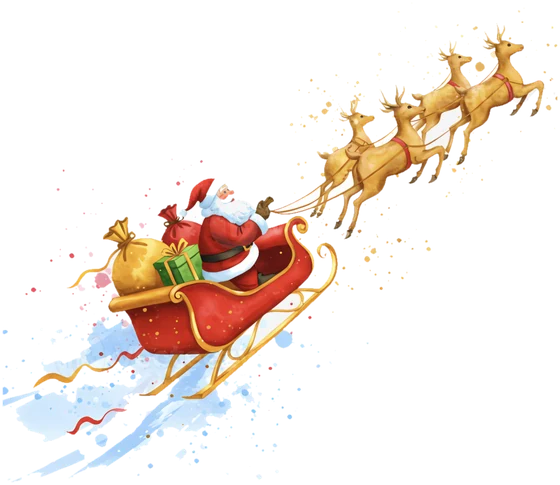
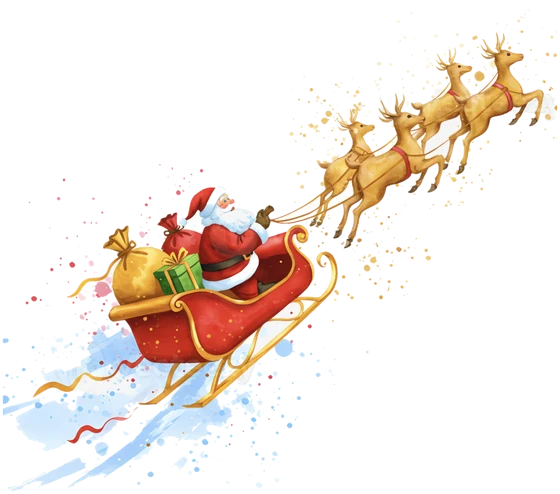
v1.3.4: restore Santa's face in flyby image
Claude-Session: https://claude.ai/code/session_01SRvAJUF6TxjuJo8da87RFD

diff --git a/index.html b/index.html
@@ -191,7 +191,7 @@ textarea { min-height: 72px; resize: vertical; }
 <div class="wrap" id="app"></div>
 <div id="sheet" hidden></div>
 <div class="toast" id="toast" role="status" aria-live="polite" hidden></div>
-<img id="santa" src="santa.webp" alt="" width="560" height="485">
+<img id="santa" src="santa.webp" alt="" width="560" height="494">
 <div id="glow" aria-hidden="true"></div>
 
 <script>
@@ -246,7 +246,7 @@ textarea { min-height: 72px; resize: vertical; }
   var money = function (n) { return new Intl.NumberFormat('en-US', { style: 'currency', currency: 'USD', minimumFractionDigits: n % 1 ? 2 : 0 }).format(n); };
   var plural = function (n, w) { return n + ' ' + w + (n === 1 ? '' : 's'); };
 
-  var VERSION = '1.3.3';
+  var VERSION = '1.3.4';
   var S = { families: [], people: [], gifts: [], year: null, loaded: false, mode: 'db', view: { n: 'home' }, pf: 'all' };
   var DB = null, got = {}, chains = {};
   var byCreated = function (a, b) { return (a.created || 0) - (b.created || 0); };
